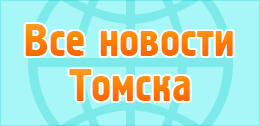
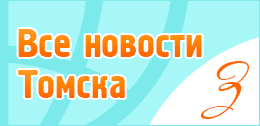
added promo block

diff --git a/app/assets/stylesheets/_zg_styles.sass b/app/assets/stylesheets/_zg_styles.sass
@@ -1,5 +1,5 @@
 /* base */
-$desktop_min_width: 1000px
+$desktop_min_width: 970px
 $desktop_max_width: 1440px
 $desktop_default_width: 1200px
 
@@ -363,7 +363,6 @@ $desktop_default_width: 1200px
 
   .header
     +liquid-size($desktop_min_width, $desktop_max_width)
-    +fixed-size
     position: relative
 
     .logo
@@ -393,6 +392,7 @@ $desktop_default_width: 1200px
           text-decoration: none
 
     .webcams
+      font-size: 11px
       background: #009999
       color: #fff
       height: 26px
@@ -595,7 +595,7 @@ body
   background-color: #fff
   color: #000
   font-family: 'Verdana', 'Tahoma', sans-serif
-  font-size: 11px
+  font-size: 12px
   line-height: 1.5
   // TODO required in the future, when the layout will be liquid
   //+min-width($desktop_min_width)

diff --git a/app/assets/stylesheets/_promo.sass b/app/assets/stylesheets/_promo.sass
@@ -1,0 +1,29 @@
+.promo
+  position: relative
+  margin: 10px 0 20px
+
+  .logotype
+    position: absolute
+    top: 50%
+    margin-top: -18px
+
+  .text
+    font-size: 12px
+    margin: 0 2px 0 95px
+    position: relative
+    background-color: #ffead9
+    padding: 15px 20px
+
+    &:before
+      right: 100%
+      top: 50%
+      border: solid transparent
+      content: " "
+      height: 0
+      width: 0
+      position: absolute
+      pointer-events: none
+      border-color: rgba(255, 234, 217, 0)
+      border-right-color: #ffead9
+      border-width: 15px
+      margin-top: -15px

diff --git a/app/assets/stylesheets/_filter.sass b/app/assets/stylesheets/_filter.sass
@@ -38,7 +38,7 @@
 
         &.selected a
           color: #444
-          font-size: 22px
+          font-size: 18px
 
           &:hover
             border-color: #128bce

diff --git a/app/assets/stylesheets/application.sass b/app/assets/stylesheets/application.sass
@@ -18,5 +18,6 @@
 @import 'tipsy'
 @import 'zg_styles'
 @import 'social_likes'
+@import 'promo'
 
 @import jquery.ui.all

diff --git a/app/assets/stylesheets/_left_side.sass b/app/assets/stylesheets/_left_side.sass
@@ -1,6 +1,7 @@
 .content .left_side
 
   table
+    font-size: 12px
     width: 100%
 
     thead tr
